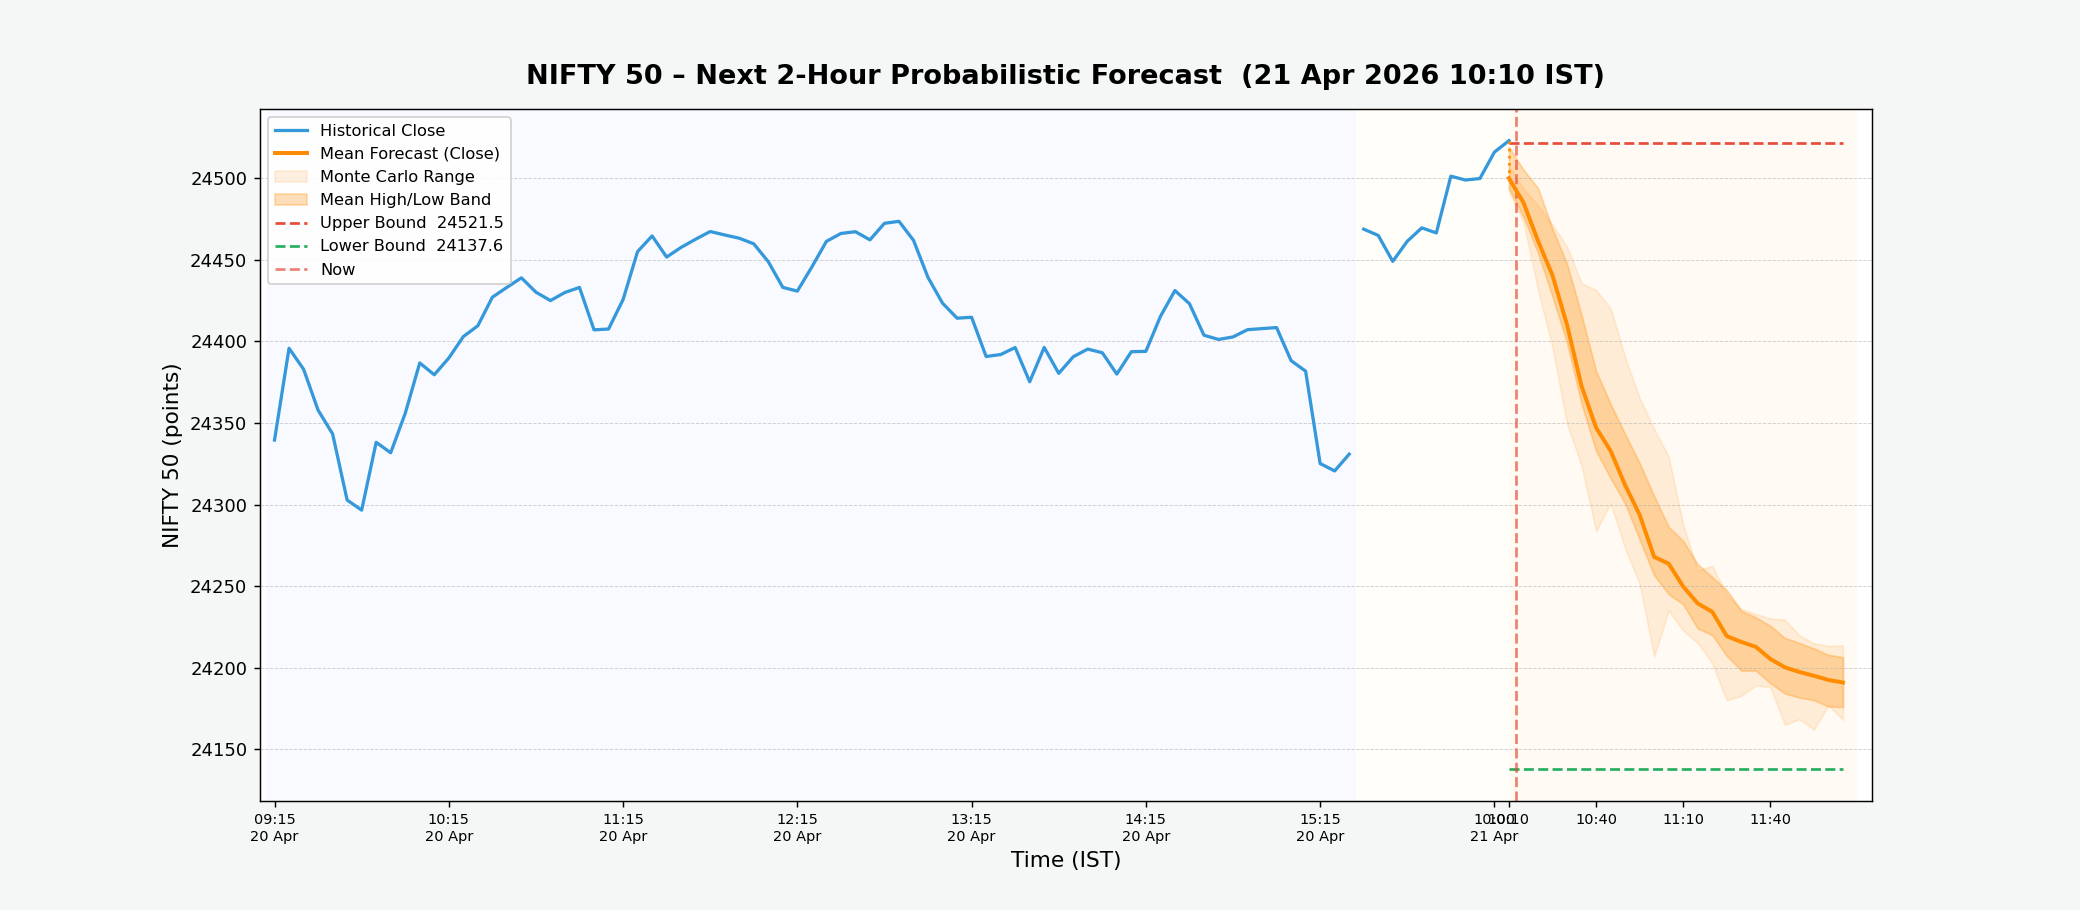
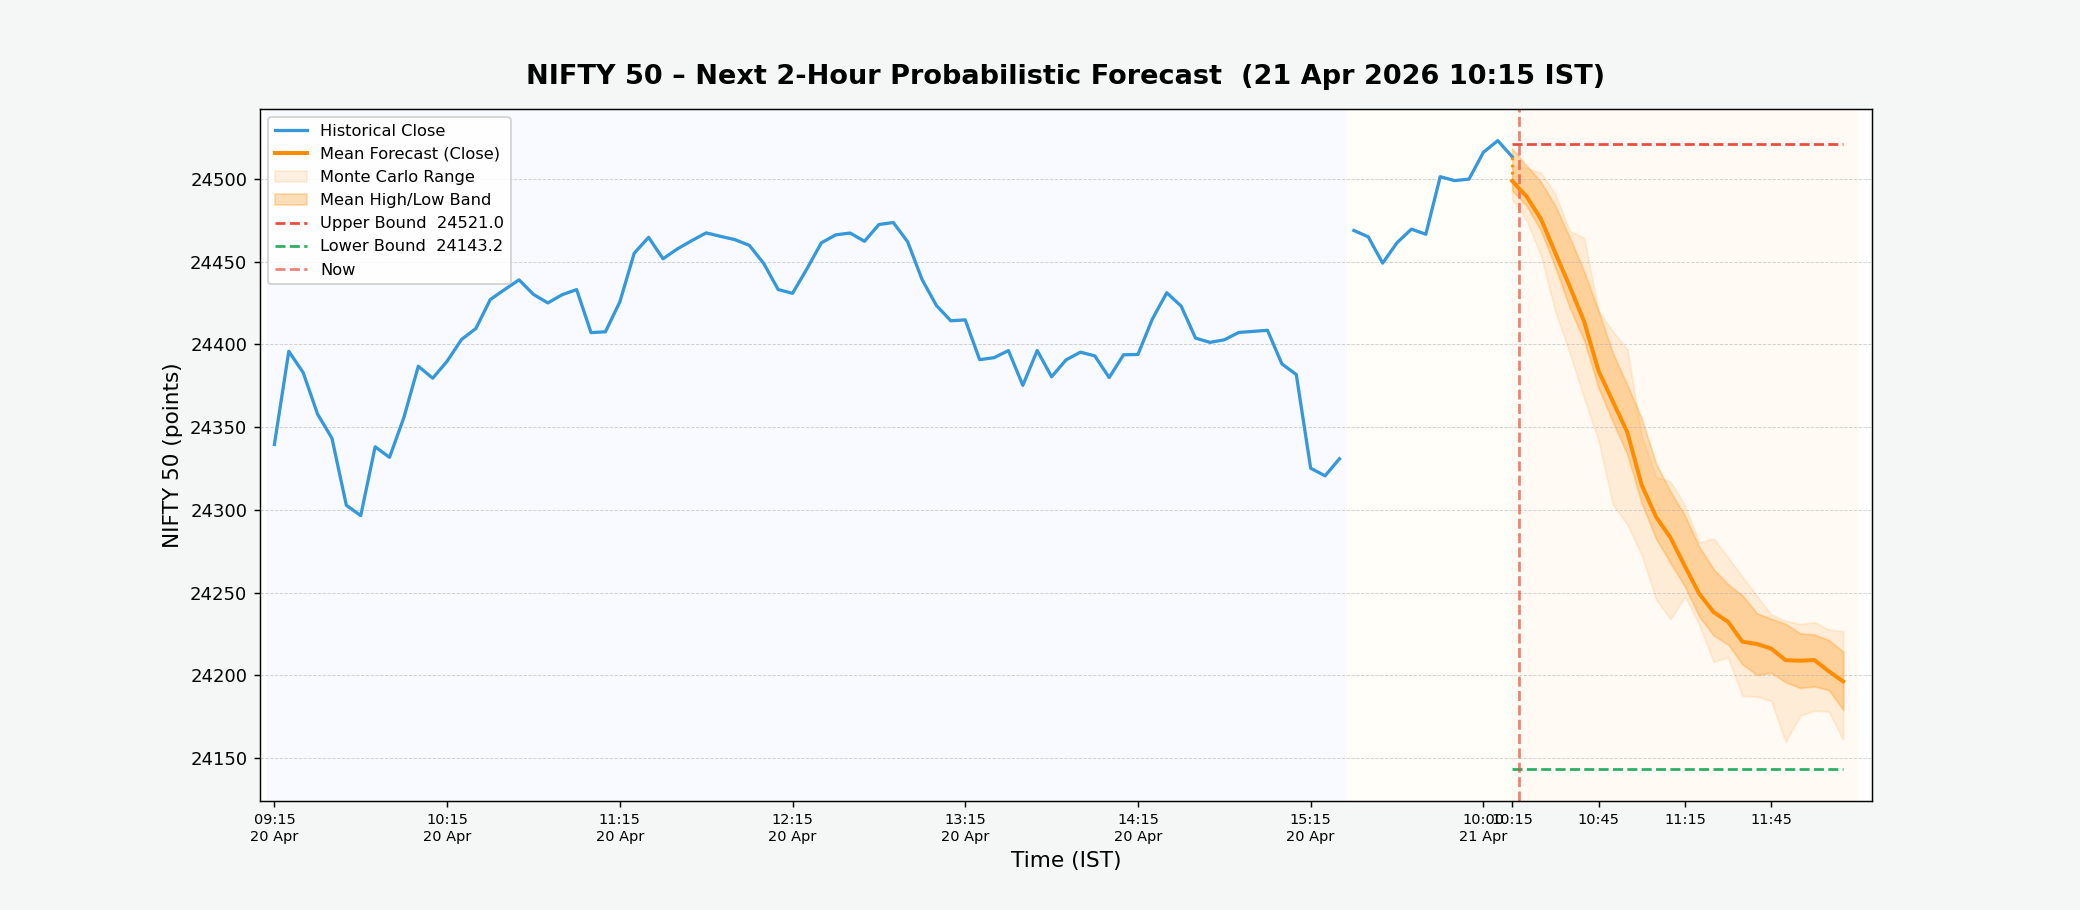
NIFTY forecast update – 2026-04-21 10:15 IST

diff --git a/index.html b/index.html
@@ -24,29 +24,29 @@
 
         <!-- Timestamp bar -->
         <div class="timestamp-bar">
-            <span>Last updated (IST):&nbsp;<strong id="update-time">2026-04-21 10:10:04</strong></span>
+            <span>Last updated (IST):&nbsp;<strong id="update-time">2026-04-21 10:15:04</strong></span>
         </div>
 
         <!-- Metric cards -->
         <div class="metrics-container">
             <div class="metric-card bullish">
                 <div class="metric-label">Bullish Bar Ratio</div>
-                <div class="metric-value" id="upside-prob">15.0%</div>
+                <div class="metric-value" id="upside-prob">12.1%</div>
                 <div class="metric-sub">Next 2h · close &gt; open %</div>
             </div>
             <div class="metric-card upper">
                 <div class="metric-label">Upper Bound</div>
-                <div class="metric-value" id="upper-bound">24521.5</div>
+                <div class="metric-value" id="upper-bound">24521.0</div>
                 <div class="metric-sub">Max predicted high</div>
             </div>
             <div class="metric-card lower">
                 <div class="metric-label">Lower Bound</div>
-                <div class="metric-value" id="lower-bound">24137.6</div>
+                <div class="metric-value" id="lower-bound">24143.2</div>
                 <div class="metric-sub">Min predicted low</div>
             </div>
             <div class="metric-card range">
                 <div class="metric-label">Predicted Range</div>
-                <div class="metric-value" id="pred-range">383.9 pts</div>
+                <div class="metric-value" id="pred-range">377.8 pts</div>
                 <div class="metric-sub">Upper − Lower spread</div>
             </div>
         </div>
